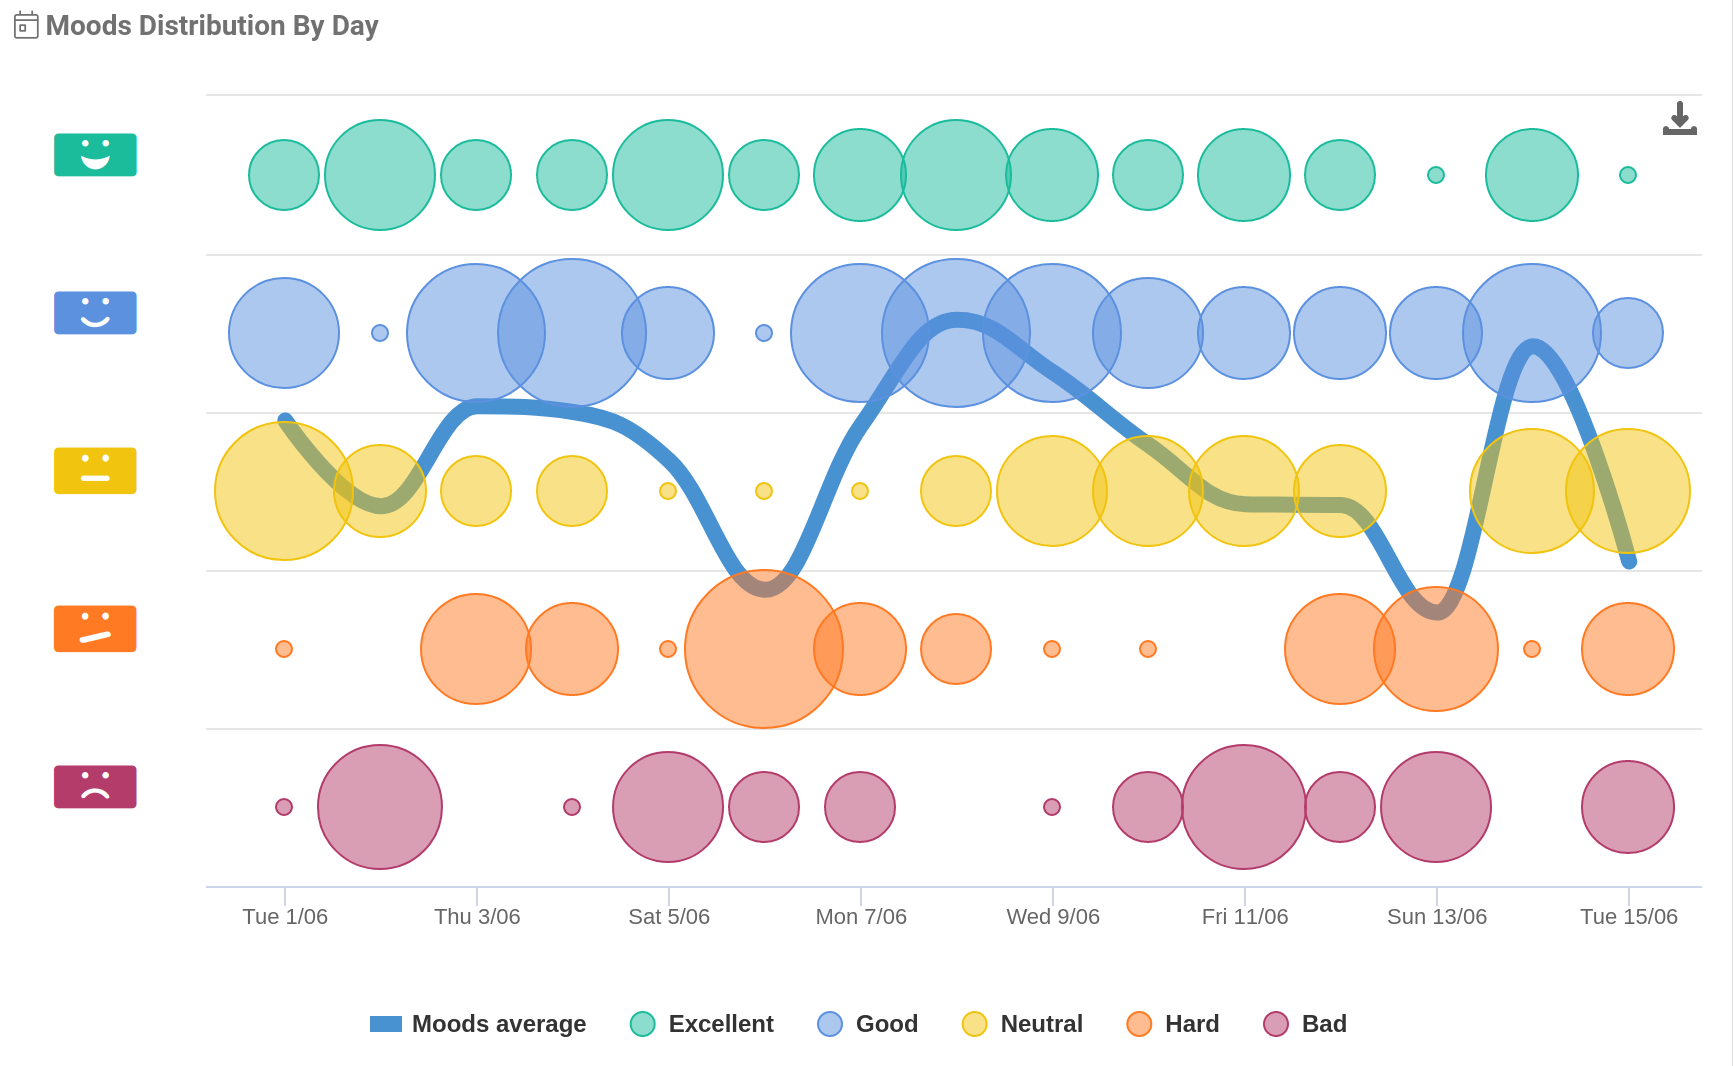
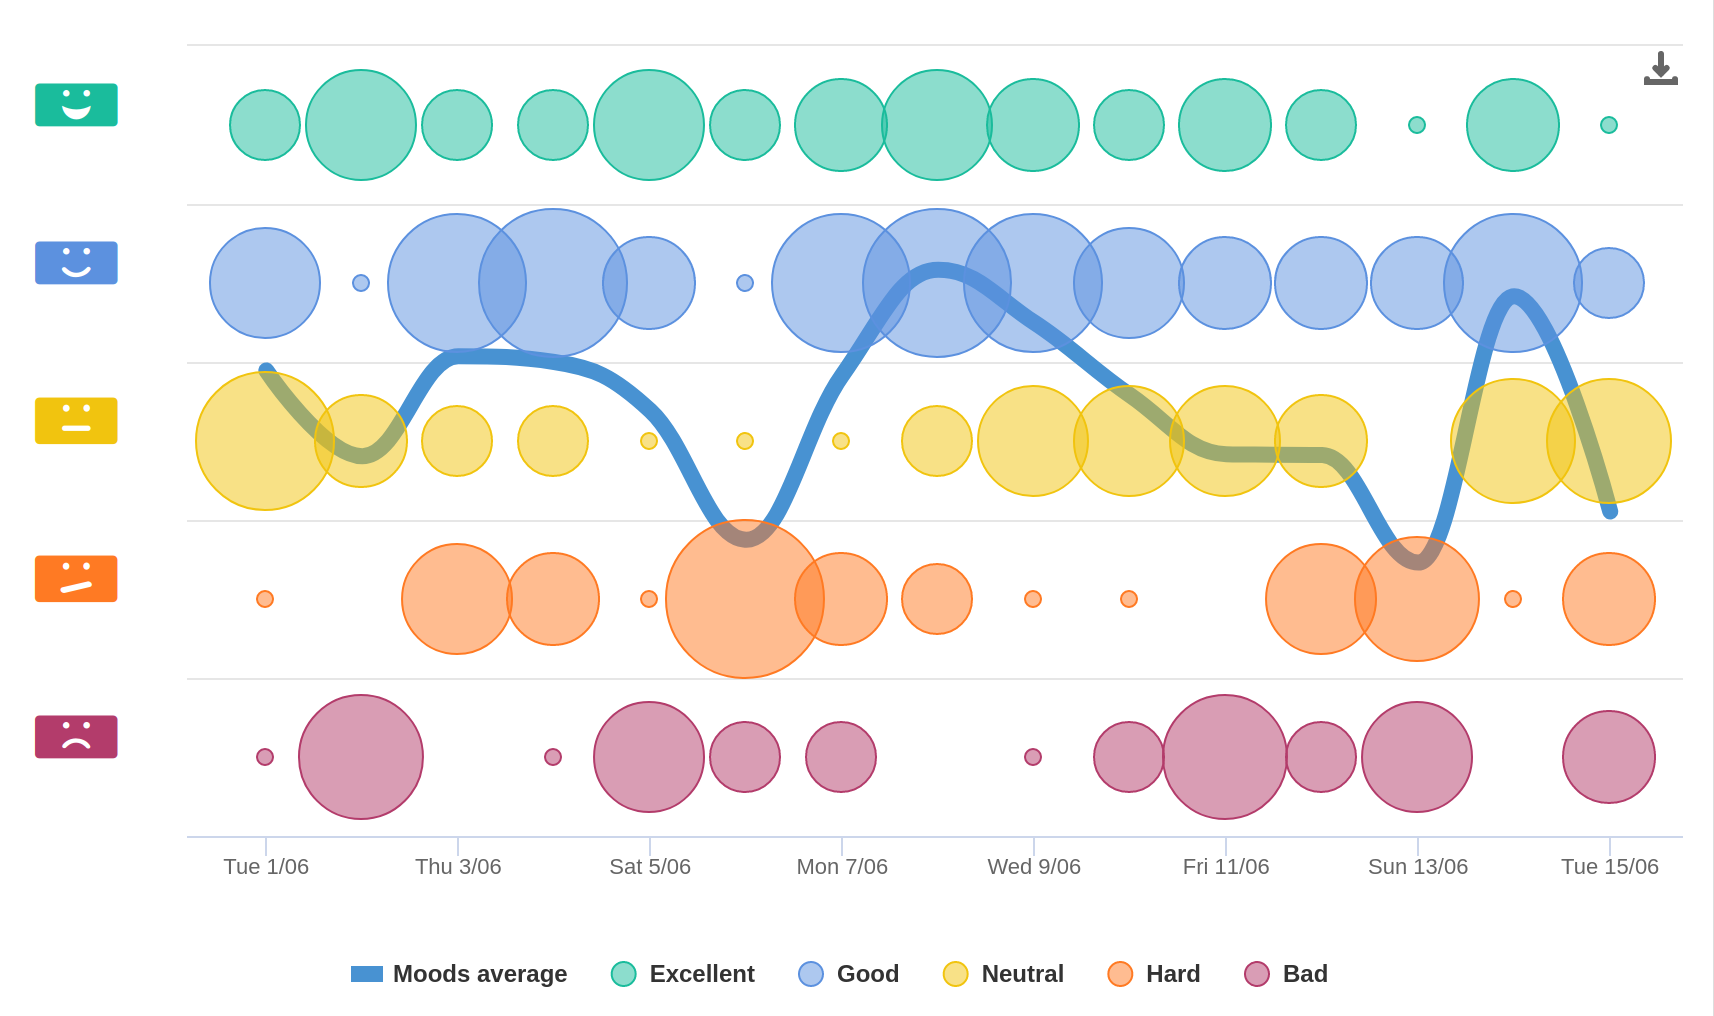
adjust size & position session 1&2

diff --git a/en/index.html b/en/index.html
@@ -20,9 +20,9 @@ lang: en
 </div>
 
 <div class="container teammood-features">
-    <section class="row gx-5 d-md-flex my-5  flex-md-row-reverse py-4 align-items-center">
+    <section class="row gx-4 d-md-flex my-5  flex-md-row-reverse py-4 align-items-center">
         <h2>Straightforward path to wellness</h2>
-        <p>Stress is the worst enemy of your team. It reduces happiness and work always takes a hit. It comes from various sources and is not easy to reduce. Wellness needs to be at the center of your attention and TeamMood helps you in a fun way with that without requiring a lot of time (that you don't have).</p>
+        <p class="homepage-subtitle">Stress is the worst enemy of your team. It reduces happiness and work always takes a hit. It comes from various sources and is not easy to reduce. Wellness needs to be at the center of your attention and TeamMood helps you in a fun way with that without requiring a lot of time (that you don't have).</p>
 
         <div class="col-md-7 text-center">
             <img class="img-fluid" src="/images/homepage/screenshot/screenshot2.png" alt="TeamMood - give your mood every day">
@@ -30,18 +30,24 @@ lang: en
 
         <div class="col-md-5">
             <article>
-                <img class="img-fluid icon-image" src="/images/homepage/icon/smile.svg" alt="">
-                <h3>Effortless moods</h3>
+                <div class="d-flex mt-3 mb-1">
+                    <img class="img-fluid icon-image my-0 me-3" src="/images/homepage/icon/smile.svg" alt="">
+                    <h3 class="mb-0">Effortless moods</h3>
+                </div>
                 <p>Writing a comment every day can quickly become boring for your teammates. With moods, a single click allows you to get useful information on their wellness and keep boredom out for longer.</p>
             </article>
             <article>
-                <img class="img-fluid icon-image" src="/images/homepage/icon/comment.svg" alt="">
-                <h3>Optional written feedback</h3>
+                <div class="d-flex mt-3 mb-1">
+                    <img class="img-fluid icon-image my-0 me-3" src="/images/homepage/icon/comment.svg" alt="">
+                    <h3 class="mb-0">Optional written feedback</h3>
+                </div>
                 <p>Your teammates still have the ability to write comments in addition to moods but it's optional. This way you increase usage from your teammates and you will get more useful comments and less noise.</p>
             </article>
             <article>
-                <img class="img-fluid icon-image" src="/images/homepage/icon/anonymity.svg" alt="">
-                <h3>Focus on anonymity</h3>
+                <div class="d-flex mt-3 mb-1">
+                    <img class="img-fluid icon-image my-0 me-3" src="/images/homepage/icon/anonymity.svg" alt="">
+                    <h3 class="mb-0">Focus on anonymity</h3>
+                </div>
                 <p>It's next to impossible to get honest feedback from teammates if what they say is identifiable. Feedback in TeamMood is completely anonymous.</p>
             </article>
         </div>
@@ -50,26 +56,33 @@ lang: en
 <!--   bloc 2-->
     <section class="row gx-5 d-md-flex my-5 py-4 align-items-center">
         <h2>Proactive team management</h2>
-        <p>For happy teammates, being a proactive leader is essential. But without enough insights it's practically impossible. In order to avoid conflicts and integrate new members to the team, you must put in place the right tools to be able to solve issues as soon as they emerge.</p>
+        <p class="homepage-subtitle">For happy teammates, being a proactive leader is essential. But without enough insights it's practically impossible. In order to avoid conflicts and integrate new members to the team, you must put in place the right tools to be able to solve issues as soon as they emerge.</p>
 
-        <div class="col-md-7 text-center">
+        <figure class="col-md-7 text-center">
+            <figcaption class="text-center fw-bold">Mood Distribution By Day</figcaption>
             <img class="img-fluid" src="/images/homepage/screenshot/screenshot3.png" alt="TeamMood - analytics">
-        </div>
+        </figure>
 
         <div class="col-md-5">
             <article>
-                <img class="img-fluid icon-image" src="/images/homepage/icon/analytics.svg" alt="">
-                <h3>Get answers with analytics</h3>
+                <div class="d-flex mt-3 mb-1">
+                    <h3 class="mb-0">Get answers with analytics</h3>
+                    <img class="img-fluid icon-image my-0 ms-3" src="/images/homepage/icon/analytics.svg" alt="">
+                </div>
                 <p>The problem with generic tools like whiteboards is the lack of analytics. TeamMood is opinionated to help you be more proactive in managing your team. Get the right analytics, zero configuration required.</p>
             </article>
             <article>
-                <img class="img-fluid icon-image" src="/images/homepage/icon/segment.svg" alt="">
-                <h3>Dive deeper with segmentation</h3>
+                <div class="d-flex mt-3 mb-1">
+                    <h3 class="mb-0">Dive deeper with segmentation</h3>
+                    <img class="img-fluid icon-image my-0 ms-3" src="/images/homepage/icon/segment.svg" alt="">
+                </div>
                 <p>Analytics for multiple teams can become hard to decode. That's why you can segment data to get the most accurate analytics for a given situation and handle it quickly.</p>
             </article>
             <article>
-                <img class="img-fluid icon-image" src="/images/homepage/icon/guide.svg" alt="">
-                <h3>Guide to leadership (coming soon)</h3>
+                <div class="d-flex mt-3 mb-1">
+                    <h3 class="mb-0">Guide to leadership (coming soon)</h3>
+                    <img class="img-fluid icon-image my-0 ms-3" src="/images/homepage/icon/guide.svg" alt="">
+                </div>
                 <p>Tools will never replace management skills. But you might face problems you never experienced before and don't know how to react. We gathered all the situations you might face and the actions you need to take in a guide freely available to everyone.</p>
             </article>
         </div>

diff --git a/css/style.css b/css/style.css
@@ -39,7 +39,7 @@ body{
     padding: 0;
     font-weight: 100;
     line-height: 1.42857143;
-    color: #888;
+    color: #757575;
 }
 /*
 body {
@@ -308,9 +308,9 @@ footer .nav-link:hover{
     margin: 20px auto;
 }
 
-.teammood-features p{
+/*.teammood-features p{
     font-size: 20px;
-}
+}*/
 
 .teammood-features h3{
     font-size: 1.3em;
@@ -664,13 +664,15 @@ body .documentation{
 
 .icon-image{
     fill: #3F3C39;
-    width: 40px;
+    width: 25px;
     min-width: auto;
-    margin-top: 20px;
-    margin-bottom: 10px;
 }
 
 /* v2021 */
+.homepage-subtitle{
+    font-size: 1.1em;
+}
+
 .homepage-grid{
     display: grid;
     grid-template-columns: repeat(3, 1fr);
